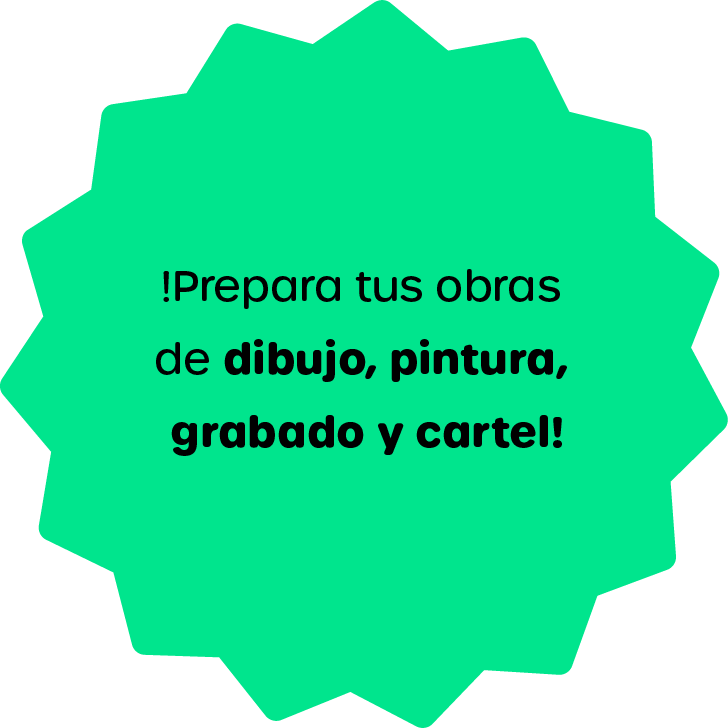
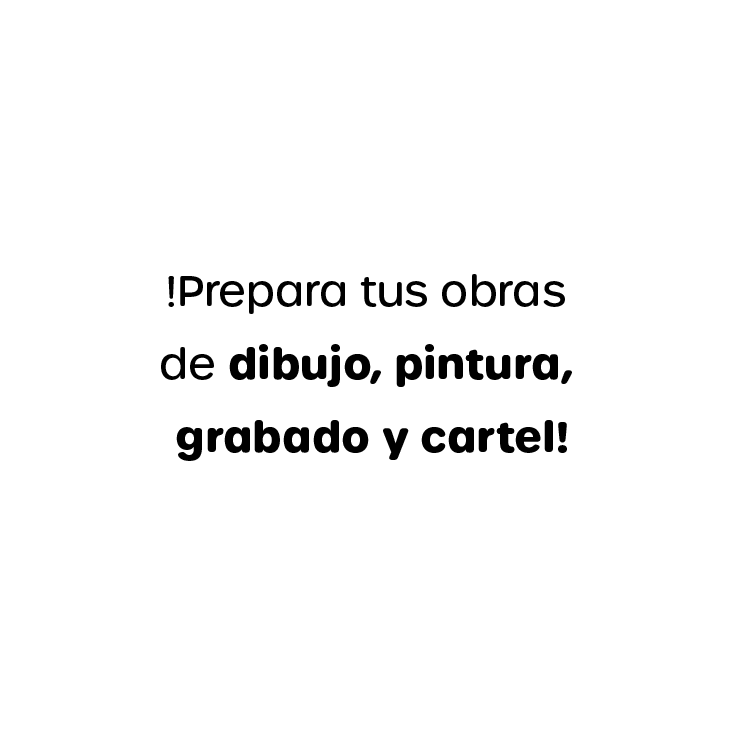
adecuando el registropara mostrear informacion y funcionamiento correcto

diff --git a/src/components/Registro.tsx b/src/components/Registro.tsx
@@ -41,6 +41,8 @@ export default function Registro() {
     const [showSuccessModal, setShowSuccessModal] = useState(false);
     const [ciudades, setCiudades] = useState<CityOption[]>([]);
     const [showRepresentative, setShowRepresentative] = useState(false);
+    const [showErrorModal, setShowErrorModal] = useState(false);
+    const [showLoadingModal, setShowLoadingModal] = useState(false);
 
     const handleChange = (e: ChangeEvent<HTMLInputElement | HTMLSelectElement | HTMLTextAreaElement>) => {
         const { id, value } = e.target;
@@ -67,30 +69,7 @@ export default function Registro() {
         setShowRepresentative(!isNaN(parsedAge) && parsedAge < 18);
     };
 
-    const handleFileChange = (e: ChangeEvent<HTMLInputElement>) => {
-        const file = e.target.files?.[0];
-        if (file) {
-            if (!ALLOWED_FILE_TYPES.includes(file.type)) {
-                setMessage('Solo se permiten archivos PNG, JPG, PDF y JPEG.');
-                return;
-            }
-            if (file.size > MAX_FILE_SIZE) {
-                setMessage('El archivo debe ser menor de 25 MB.');
-                return;
-            }
-
-            const sanitizedFileName = file.name
-                .normalize("NFD")
-                .replace(/[\u0300-\u036f]/g, "")
-                .replace(/[^a-zA-Z0-9.-_]/g, "_");
-
-            // Generar un nombre único utilizando uuid y timestamp
-            const uniqueFileName = `${Date.now()}_${uuidv4()}_${sanitizedFileName}`;
-
-            setSelectedFile(new File([file], uniqueFileName, { type: file.type }));
-            setMessage('');
-        }
-    };
+    
 
 
     const handleSocialNetworkSelect = (network: string) => {
@@ -135,40 +114,79 @@ export default function Registro() {
         }
     };
 
+    const handleFileChange = (e: ChangeEvent<HTMLInputElement>) => {
+        const file = e.target.files?.[0];
+        if (file) {
+            if (!ALLOWED_FILE_TYPES.includes(file.type)) {
+                setMessage('Solo se permiten archivos PNG, JPG, PDF y JPEG.');
+                return;
+            }
+            if (file.size > MAX_FILE_SIZE) {
+                setMessage('El archivo debe ser menor de 25 MB.');
+                return;
+            }
+
+            const sanitizedFileName = file.name
+                .normalize("NFD")
+                .replace(/[\u0300-\u036f]/g, "")
+                .replace(/[^a-zA-Z0-9.-_]/g, "_");
+
+            // Generar un nombre único utilizando uuid y timestamp
+            const uniqueFileName = `${Date.now()}_${uuidv4()}_${sanitizedFileName}`;
+
+            setSelectedFile(new File([file], uniqueFileName, { type: file.type }));
+            setMessage('');
+        }
+    };
+
     const handleSubmit = async (e: FormEvent<HTMLFormElement>) => {
         e.preventDefault();
+        //mostrar la pantalla de carga
+        setShowLoadingModal(true);
 
         if (!acceptsEmails || !acceptsTerms) {
             setMessage('Debes aceptar recibir correos electrónicos y los términos para continuar.');
+            setShowLoadingModal(false);
+            setShowErrorModal(true);
             return;
         }
         if (!formData.email || !formData.name || !formData.apellido || !formData.age || !formData.ciudad || !formData.categoria || !formData.descripcion || !formData.titulo) {
             setMessage('Todos los campos son obligatorios.');
+            setShowLoadingModal(false);
             return;
         }
 
         const age = parseInt(formData.age, 10);
         if (isNaN(age) || age < 5 || age > 120) {
             setMessage('Por favor, ingresa una edad válida entre 5 y 120 años.');
+            setShowLoadingModal(false);
             return;
         }
         if (age < 18 && (!formData.representante || !formData.cedula)) {
             setMessage('Por favor, ingresa los datos del representante legal.');
+            setShowLoadingModal(false);
             return;
         }
         if (!selectedFile) {
             setFileError('Por favor, selecciona un archivo PNG o JPEG válido.');
+            setShowLoadingModal(false);
             return;
         }
 
         try {
             // Subir el archivo a Supabase Storage
+            const uniqueFilePath = `public/uploads/${Date.now()}_${uuidv4()}_${selectedFile.name}`;
             const { data: storageData, error: storageError } = await supabase.storage
                 .from('obras')
-                .upload(`public/${selectedFile.name}`, selectedFile);
-
-            if (storageError) throw storageError;
-
+                .upload(uniqueFilePath, selectedFile);
+    
+            if (storageError) {
+                setMessage('Error al subir el archivo.');
+                setShowLoadingModal(false);
+                setShowErrorModal(true);
+                throw storageError;
+            }
+    
             // Insertar el participante en la tabla `users`
             const { data: participantData, error: dbError } = await supabase.from('users').insert([{
                 email: formData.email,
@@ -184,39 +202,49 @@ export default function Registro() {
                 title: formData.titulo,
                 technique: formData.tecnica,
                 dimensions: formData.dimensiones,
-            }]).select();  // Usamos `.select()` para obtener el id del participante
-
+            }]).select();
+    
             if (dbError) {
-                setMessage(dbError.code === '23505' ? 'Ya has registrado una obra.' : 'Error al registrar.');
+                // Eliminar el archivo subido si hay un error en la inserción
+                await supabase.storage.from('obras').remove([`public/${selectedFile.name}`]);
+                setMessage(dbError.code === '23505' ? 'Ya has registrado una obra.' : 'Error al registrar la obra.');
+                setShowLoadingModal(false);
+                setShowErrorModal(true);
                 return;
             }
-
-            // Si el participante es menor de edad, insertar el representante legal
-            if (age < 18) {
-                const participantId = participantData[0].id; // Obtener el `id` del participante
-
+    
+            // Insertar el representante legal si es menor de edad
+            if (parseInt(formData.age, 10) < 18) {
+                const participantId = participantData[0].id;
                 const { error: repError } = await supabase.from('represent').insert([{
-                    id: formData.cedula,  // Cedula del representante como `id`
+                    id: formData.cedula,
                     name: formData.representante,
-                    id_user: participantId, // `id_user` relacionado con el participante
+                    user_id: participantId,
                 }]);
-
+    
                 if (repError) {
-                    console.error('Error al registrar el representante:', repError.message);
+                    // Eliminar el archivo subido y el usuario registrado si falla la inserción del representante
+                    await supabase.storage.from('obras').remove([`public/${selectedFile.name}`]);
+                    await supabase.from('users').delete().eq('id', participantId);
                     setMessage('Error al registrar el representante.');
+                    setShowLoadingModal(false);
+                    setShowErrorModal(true);
                     return;
                 }
             }
-
+    
             // Mostrar mensaje de éxito y restablecer el formulario
+            setShowLoadingModal(false);
             setShowSuccessModal(true);
-            setMessage('Registro exitoso.');
             setFormData({ email: '', name: '', apellido: '', age: '', ciudad: 'Medellin', categoria: '', descripcion: '', socialUsername: '', socialNetwork: '', titulo: '', tecnica: '', dimensiones: '', representante: '', cedula: '' });
             setSelectedFile(null);
             setFileError(null);
+    
         } catch (error) {
-            console.error(error);
+            console.log(error);
             setMessage('Error al registrar y subir la obra.');
+            setShowLoadingModal(false);
+            setShowErrorModal(true);
         }
     };
 
@@ -305,22 +333,26 @@ export default function Registro() {
                             />
                         </div>
                         <div className="flex flex-col w-full md:w-1/2 mt-4 md:mt-0">
-                            <label htmlFor="cedulaRepresentante" className="text-lg md:text-xl text-gray-700">
-                                Cédula del representante legal
-                            </label>
-                            <input
-                                type="number"  // Cambiado a "text" para mayor control
-                                id="cedulaRepresentante"
-                                value={formData.cedula}  // Asegura que sea una cadena
-                                onChange={handleChange}
-                                maxLength={10}
-                                minLength={10}
-                                pattern="[0-9]*"
-                                className="w-full bg-transparent border-b-2 border-white p-2 text-gray-700 placeholder-gray-700"
-                                placeholder="Cédula del representante legal del menor"
-                                required
-                            />
-                        </div>
+    <label htmlFor="cedulaRepresentante" className="text-lg md:text-xl text-gray-700">
+        Cédula del representante legal
+    </label>
+    <input
+        type="text"
+        id="cedulaRepresentante"
+        value={formData.cedula}
+        onChange={(e) => {
+            // Permite solo números y restringe a un máximo de 10 caracteres
+            const value = e.target.value.replace(/\D/g, ""); // Elimina cualquier caracter que no sea número
+            if (value.length <= 10) {
+                handleChange(e); // Llama a tu función de cambio solo si cumple la longitud
+            }
+        }}
+        pattern="\d{10}" // Expresión regular para 10 dígitos exactos
+        className="w-full bg-transparent border-b-2 border-white p-2 text-gray-700 placeholder-gray-700"
+        placeholder="Cédula del representante legal del menor"
+        required
+    />
+</div>
                     </div>
                 )}
                 <div>
@@ -521,7 +553,7 @@ export default function Registro() {
                     ¡Regístrate!
                 </button>
             </form>
-            <div>{message && <p>{message}</p>}</div>
+            <div className=''>{message && <p className='text-red-500 text-center font-bold'>{message}</p>}</div>
             {/* Modal de éxito */}
             {showSuccessModal && (
                 <div className="fixed inset-0 bg-black bg-opacity-50 flex justify-center items-center">
@@ -537,6 +569,35 @@ export default function Registro() {
                     </div>
                 </div>
             )}
+            {/* Modal de error */}
+            {showErrorModal && (
+                <div className="fixed inset-0 bg-black bg-opacity-50 flex justify-center items-center">
+                    <div className="bg-white p-8 rounded-lg text-center shadow-lg">
+                        <h2 className="text-2xl font-bold text-verde-goodkidz mb-4">Error</h2>
+                        <p className="text-gray-600">{message}</p>
+                        <button
+                            className="mt-4 bg-verde-goodkidz text-white px-6 py-2 rounded-lg hover:bg-green-700 transition-all"
+                            onClick={() => setShowErrorModal(false)}
+                        >
+                            Cerrar
+                        </button>
+                    </div>
+                </div>
+            )}
+            {/* Modal de carga */}
+{showLoadingModal && (
+    <div className="fixed inset-0 bg-black bg-opacity-50 flex justify-center items-center">
+        <div className="bg-white p-8 rounded-lg text-center shadow-lg">
+            <div className="flex justify-center mb-4">
+                {/* Spinner */}
+                <div className="loader ease-linear rounded-full border-4 border-t-4 border-gray-200 h-12 w-12"></div>
+            </div>
+            <h2 className="text-2xl font-bold text-verde-goodkidz mb-4">Subiendo Obra...</h2>
+            <p className="text-gray-600">Por favor, espere.</p>
+        </div>
+    </div>
+)}
+
             {/* Imagen de categorías en la parte inferior (visible solo en pantallas grandes con posición absoluta) */}
             <div className="mt-10 md:mt-0 md:absolute md:bottom-40 md:left-4">
                 <Image

diff --git a/src/styles/globals.css b/src/styles/globals.css
@@ -42,3 +42,14 @@
       text-wrap: balance;
     }
   }
+  /* Estilo del spinner */
+.loader {
+  border-top-color: #00E58D; /* Puedes cambiar el color a tu preferencia */
+  animation: spin 1s linear infinite;
+}
+
+@keyframes spin {
+  0% { transform: rotate(0deg); }
+  100% { transform: rotate(360deg); }
+}
+
